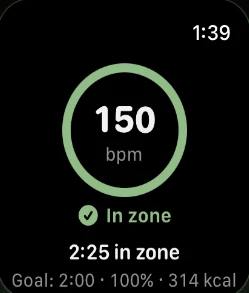
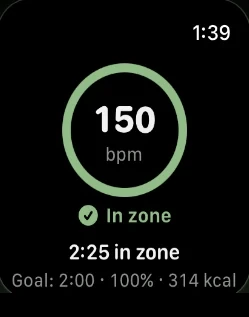
perf/a11y: self-host Fraunces, fix AA contrast, and trim 2.4MB of dead assets
#11 Fraunces sets every display heading, so it IS the LCP element — and it
arrived through three dependent hops (HTML -> layout.css -> fonts.googleapis ->
fonts.gstatic) with no preconnect on either cross-origin host. Measured on a
150ms-RTT link the woff2 was not even REQUESTED until 1410ms. Moved it to
next/font alongside Inter: now self-hosted same-origin, and next/font's
metric-matched "Fraunces Fallback" removes the swap reflow that was the site's
CLS. Verified: 0 cross-origin Fraunces requests, 0 googleapis CSS requests.
The other four families stay on the @import — they are not the LCP.

#12 Four light-theme sites used accent tokens as small text below AA:
--accent-color measured 3.79:1 on the cream background (fine for display type,
short of the 4.5:1 body-copy bar) and the modal's 11px case number used
--accent-soft at 2.29:1. Darkened --accent-color to #277684 (4.93:1, same hue)
and pointed that one numeral at --accent-deep (5.46:1). Dark theme already
passed and is untouched.

#32 Desktop vitrine captions sat on two baselines: Alisio's slot is 659.8px
against the 640px min-height, so `align-items: center` lifted the two side
captions ~10px — defeating the very min-height that exists to align them.
`align-items: end`, same fix as the carousel. Spread 10 -> 0 at 1024/1280/1440.

#16 `.tall-preview`'s 640px floor is (0,2,0) and the mobile override only
(0,1,0), so it survived on phones: on a real iPhone 15 the case title landed
[…]

diff --git a/app/globals.css b/app/globals.css
@@ -1,4 +1,7 @@
-@import url("https://fonts.googleapis.com/css2?family=Fraunces:ital,opsz,wght@0,9..144,300..900;1,9..144,300..900&family=Inter:wght@300;400;500;600;700&family=EB+Garamond:ital,wght@0,400;0,500;1,400;1,500&family=Instrument+Serif:ital@0;1&family=IBM+Plex+Mono:wght@400;500&display=swap");
+/* Fraunces is NOT here on purpose: it is the LCP element and now loads via
+   next/font in app/[locale]/layout.tsx, self-hosted same-origin. Adding it back
+   would restore the 3-hop chain this @import still costs the families below. */
+@import url("https://fonts.googleapis.com/css2?family=Inter:wght@300;400;500;600;700&family=EB+Garamond:ital,wght@0,400;0,500;1,400;1,500&family=Instrument+Serif:ital@0;1&family=IBM+Plex+Mono:wght@400;500&display=swap");
 
 @tailwind base;
 @tailwind components;
@@ -131,7 +134,12 @@
   --mute-2: #a8a19a;
   --rule: #1a1a1a12;
   --rule-strong: #1a1a1a22;
-  --accent-color: #2f8a99;
+  /* #2f8a99 measured 3.79:1 on --ab-bg (#faf8f3): fine for large display type,
+     but it is also used as small body emphasis (.ab-h-sub em, .ab-cta .eye em,
+     .ab-case-desc em), where 4.5:1 is the bar. #277684 is the same hue at
+     4.93:1 — enough headroom that browser rounding cannot drop it under.
+     The dark theme already passes and is left alone. */
+  --accent-color: #277684;
   --accent-soft: #56b3c2;
   --accent-deep: #1f6f7c;
   --good: #3e8a5e;
@@ -145,7 +153,7 @@
   --line: var(--rule);
   --line-2: var(--rule-strong);
 
-  --ab-serif: "Fraunces", "Cormorant Garamond", ui-serif, Georgia, serif;
+  --ab-serif: var(--font-fraunces), "Cormorant Garamond", ui-serif, Georgia, serif;
   --ab-sans: "Inter", ui-sans-serif, system-ui, -apple-system, "Helvetica Neue", Arial, sans-serif;
 
   --ab-max: 1320px;
@@ -562,7 +570,11 @@
   display: grid;
   grid-template-columns: 1fr 1.15fr 1fr;
   gap: clamp(18px, 3vw, 48px);
-  align-items: center;
+  /* `center` defeated the very device the slots use to line their captions up:
+     Alisio's slot measures 659.8px against the 640px min-height, so the two
+     shorter slots were lifted ~10px and the three captions sat on two baselines
+     across the whole desktop range. Bottom-align, like the carousel below 820px. */
+  align-items: end;
   margin-top: clamp(40px, 6vw, 76px);
   position: relative;
 }
@@ -1417,7 +1429,9 @@
 .ab-case-head .eye .num {
   font-family: var(--ab-serif);
   font-feature-settings: "tnum";
-  color: var(--accent-soft);
+  /* --accent-soft is 2.29:1 on the light background — it is a decorative/hover
+     token elsewhere, so darken here rather than globally. This is 11px text. */
+  color: var(--accent-deep);
 }
 .ab-case-close {
   width: 34px;
@@ -2058,6 +2072,12 @@
     border-bottom: 1px solid var(--line);
     min-height: 380px;
     padding: 28px 16px;
+  }
+  /* Alisio's `.tall-preview` floor is (0,2,0) and this block's `.ab-case-preview`
+     is only (0,1,0), so the 640px desktop floor survived on phones and pushed the
+     case title 106px below the fold on a 393x659 screen. Same specificity wins. */
+  .ab-case-preview.tall-preview {
+    min-height: auto;
   }
   .ab-case-modal {
     width: calc(100vw - 16px);

diff --git a/app/[locale]/layout.tsx b/app/[locale]/layout.tsx
@@ -1,6 +1,6 @@
 import type React from "react"
 import type { Metadata } from "next"
-import { Inter } from "next/font/google"
+import { Fraunces, Inter } from "next/font/google"
 import { notFound } from "next/navigation"
 import { NextIntlClientProvider } from "next-intl"
 import { getTranslations, getMessages, unstable_setRequestLocale } from "next-intl/server"
@@ -11,6 +11,22 @@ const inter = Inter({
   subsets: ["latin"],
   display: "swap",
   variable: "--font-inter",
+})
+
+/* Fraunces sets every display heading, so it IS the LCP element — and it used to
+   arrive through a 3-hop dependent chain (HTML -> layout.css -> fonts.googleapis
+   -> fonts.gstatic) with no preconnect on either cross-origin host: measured
+   1410ms to even request the woff2 on a 150ms-RTT connection. next/font
+   self-hosts it same-origin, which removes all three hops, and its generated
+   size-adjust fallback matches Fraunces' metrics so the swap stops re-wrapping
+   the headings. Keep it out of the globals.css @import (the other four families
+   still load there). */
+const fraunces = Fraunces({
+  subsets: ["latin"],
+  axes: ["SOFT", "opsz"],
+  style: ["normal", "italic"],
+  display: "swap",
+  variable: "--font-fraunces",
 })
 
 export async function generateMetadata({
@@ -65,7 +81,7 @@ export default async function LocaleLayout({
   const messages = await getMessages()
 
   return (
-    <html lang={locale} className={inter.variable}>
+    <html lang={locale} className={`${inter.variable} ${fraunces.variable}`}>
       <head>
         <meta name="theme-color" content="#FAF8F3" />
       </head>

diff --git a/app/[locale]/page.tsx b/app/[locale]/page.tsx
@@ -1452,7 +1452,7 @@ function CasePreview({ which }: { which: CaseKey }) {
         </div>
         <div className="ab-alisio-watch">
           {/* eslint-disable-next-line @next/next/no-img-element */}
-          <img src="/cases/alisio-watch.webp" alt="" width={249} height={293} loading="lazy" />
+          <img src="/cases/alisio-watch.webp" alt="" width={249} height={317} loading="lazy" />
         </div>
       </div>
     )
